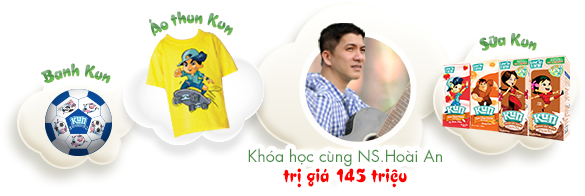
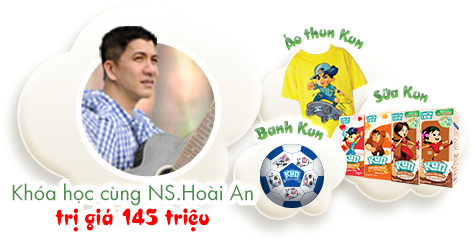
Update new layout

diff --git a/app/styles/global/_modal.scss b/app/styles/global/_modal.scss
@@ -260,10 +260,28 @@
                         border: 5px solid #0086d0;
                         margin: 0 auto;
                         overflow: hidden;
+                        position: relative;
+                        cursor: pointer;
                         @include border-radius( 50%, 50%, 50%, 50% );
+                        /* &:hover {
+                            .overlay {
+                                display: block;
+                            }
+                        } */
 
                         img {
                             width: 100%;
+                        }
+                        .overlay {
+                            width: 100%;
+                            height: 100%;
+                            background-color: rgba( 255, 255, 255, 0.62 );
+                            @include ab( 0, 0, n, n );
+                            text-align: center;
+                            font-size: 15px;
+                            color: #d10015;
+                            padding: 35px;
+                            /* display: none; */
                         }
                     }
                     .song-name {
@@ -277,11 +295,23 @@
 
             .slick-arrow {
                 position: absolute;
+                top: 50%;
+                margin-top: -24.5px;
+                width: 48px;
+                height: 49px;
+                display: block;
+                text-indent: -99999px;
+                background: none;
+                border: none;
+                cursor: pointer;
+                padding: 0;
                 &.slick-prev {
-
+                    background: url('../images/icons/arrow-left.png') no-repeat;
+                    left: -25px;
                 }
                 &.slick-next {
-                    
+                    background: url('../images/icons/arrow-right.png') no-repeat;
+                    right: -25px;
                 }
             }
         }

diff --git a/app/test-popup.html b/app/test-popup.html
@@ -250,12 +250,14 @@
                     <li>
                         <div class="wrap-img">
                             <img src="images/dummy/video-thumbnail.jpg" alt="" />
+                            <span class="overlay">Đang <br/>duyệt</span>
                         </div>
                         <span class="song-name">Cháu lên ba</span>
                     </li>
                     <li>
                         <div class="wrap-img">
                             <img src="images/dummy/video-thumbnail.jpg" alt="" />
+                            <span class="overlay">Đang <br/>duyệt</span>
                         </div>
                         <span class="song-name">Cỏ mây</span>
                     </li>
@@ -268,6 +270,7 @@
                     <li>
                         <div class="wrap-img">
                             <img src="images/dummy/video-thumbnail.jpg" alt="" />
+                            <span class="overlay">Đang <br/>duyệt</span>
                         </div>
                         <span class="song-name">Cháu lên ba</span>
                     </li>

diff --git a/app/index.html b/app/index.html
@@ -81,7 +81,7 @@
                     <h3 class="prize_text">Giải thưởng</h3>
                     <img src="images/landing/prize.png" alt="Banh Kun - Áo thun Kun - Sửa Kun - Khóa học cùng nhạc sĩ Hoài An trị giá 145 triệu" />
                 </div>
-                <div class="wrap-action">
+                <div class="wrap-action clearfix">
                     <a href="" title="Thông tin cuộc thi">Thông tin <br/>cuộc thi</a>
                     <a href="" title="Gửi bài hát">Gửi bài hát</a>
                 </div>

diff --git a/app/styles/page/_home.scss b/app/styles/page/_home.scss
@@ -40,9 +40,9 @@
         				text-transform: uppercase;
         			}
         		}
-        		img {
+        		/* img {
         			margin-left: -100px;
-        		}
+        		} */
         	}
         	.prize_text {
         		background: url('../images/landing/prize-text.png') center center no-repeat;
@@ -55,6 +55,7 @@
         	}
         	.wrap-action {
         		max-width: 380px;
+                margin: 0 auto;
 
         		a {
         			background: url('../images/landing/btn-send-now.png') no-repeat;
